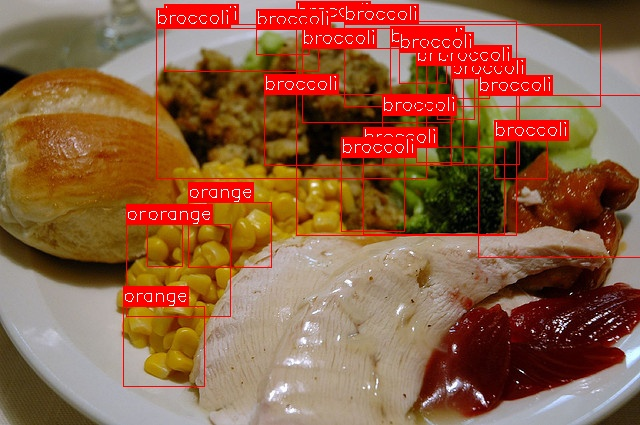
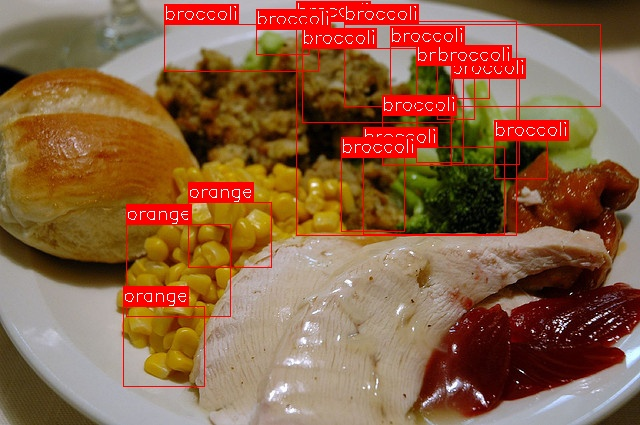
Add threshhold options to nms

diff --git a/bounding_box_prediction.py b/bounding_box_prediction.py
@@ -38,14 +38,14 @@ def _crop_image(example, bbox):
     bbox_rect = (bbox[0],bbox[1],bbox[0]+bbox[2],bbox[1]+bbox[3])
     return example.crop(bbox_rect)
 
-def _non_max_suppersion(boxes, scores, max_bboxes):
+def _non_max_suppersion(boxes, scores, max_bboxes, iou_threshold, score_threshold):
     nms_boxes = dict()    
     for i in range(0,11):
         length = len(scores[i])
         if i in boxes and not i == 1 :
             box = np.asarray(boxes[i], dtype=np.int32).reshape(length,4)
             score = np.asarray(scores[i])
-            selected_indices = tf.image.non_max_suppression(box, score,max_bboxes,iou_threshold=0.3, score_threshold = 11.0)
+            selected_indices = tf.image.non_max_suppression(box, score,max_bboxes,iou_threshold, score_threshold)
             nms_boxes[i] = tf.gather(box, selected_indices).numpy()
     return nms_boxes
 
@@ -64,13 +64,13 @@ def _draw_bbox(boxes, image_path, final_path):
         
     cv2.imwrite(final_path, image)
 
-def predict_image_with_nms(image_path,final_path,  model_path, max_bboxes):
+def predict_image_with_nms(image_path,final_path,  model_path, max_bboxes, iou_threshold, score_threshold):
     sorted_bbox,scores = _predict_image(image_path,model_path)
-    box = _non_max_suppersion(sorted_bbox,scores,max_bboxes)
+    box = _non_max_suppersion(sorted_bbox,scores,max_bboxes, iou_threshold,score_threshold)
     _draw_bbox(box,image_path,final_path)
 
 def predict_image_without_nms(image_path,final_path,  model_path):
-    sorted_bbox,scores, max_bboxes  = _predict_image(image_path,model_path)
+    sorted_bbox,scores  = _predict_image(image_path,model_path)
     boxes= dict()
     for i in range (0,11):
         if i in sorted_bbox and not i == 1:
@@ -78,5 +78,5 @@ def predict_image_without_nms(image_path,final_path,  model_path):
             boxes[i] = np.asarray(sorted_bbox[i], dtype=np.int32).reshape(length,4)
     _draw_bbox(sorted_bbox,image_path,final_path)
 
-predict_image_with_nms("COCO_test2014_000000003901.jpg", "coco_test.jpg","model/saved_model/efficientnet_b1", 20)
+predict_image_with_nms("COCO_test2014_000000003901.jpg", "coco_test.jpg","model/saved_model/efficientnet_b1", 20, 0.3, 11.0)
    
